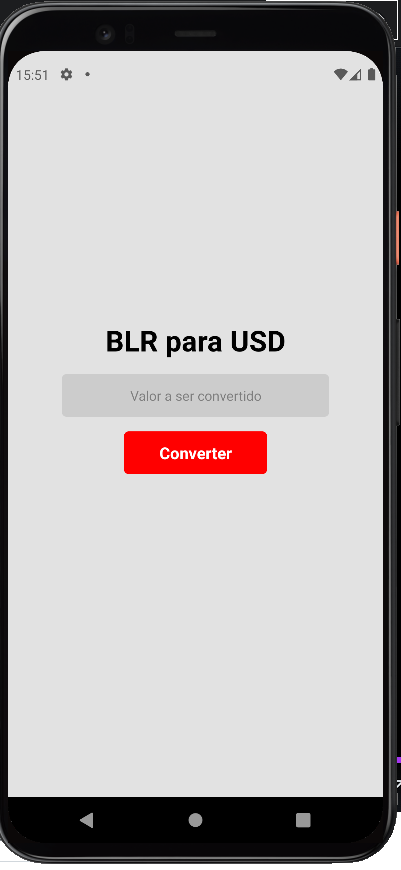
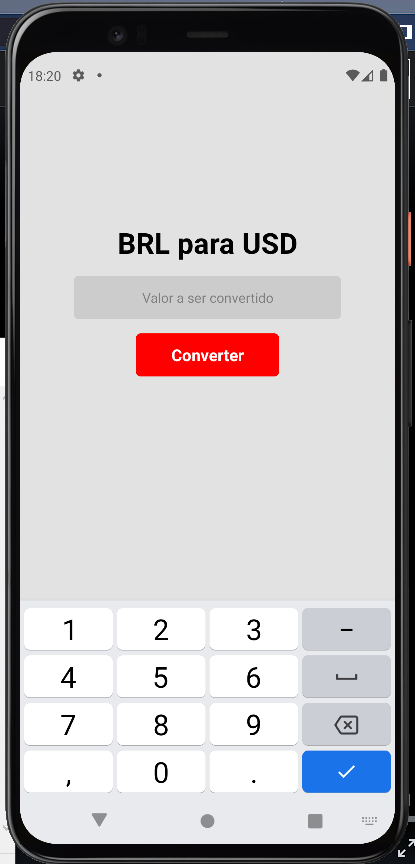
C1 - README.md

diff --git a/src/Conversor/index.js b/src/Conversor/index.js
@@ -2,7 +2,7 @@
  * 
  */
 import React, { Component } from "react";
-import { View, Text, TextInput, TouchableOpacity } from "react-native";
+import { View, Text, TextInput, TouchableOpacity, Keyboard } from "react-native";
 import { styles } from "./styles";
 
 export default class Conversor extends Component {
@@ -19,14 +19,25 @@ export default class Conversor extends Component {
     this.converter = this.converter.bind(this)
   }
 
-  converter(){
-    alert('ok')
+  async converter() {
+    let de_para = this.state.moedaA + '_' + this.state.moedaB  //esta concatenando BRL_USD
+    const response = await api.get(`convert?q=${de_para}&compact=ultra&apiKey=7c5ef455b88d735bc6ad`)  //insere o BRL_USD dentro da url
+    let cotacao = response.data[de_para] //pegara somente a resposta do response, somente o valor com de_para, já pegando aqui os valores dentro da api
+
+    let resultado = (cotacao * parseInt(this.state.moedaB_valor)) //pega o resultado da cotacao e multiplica pela moedaB_valor, parseInt converte para numero, o valor de moedaB_valor foi alterado pelo input
+
+    this.setState({  //altera o valor de valorConvertido para o valor contido em resultado
+      valorConvertido: resultado.toFixed(2)
+    })
+
+    //Fecha o techado automaticamente
+    Keyboard.dismiss()
   }
 
   render() {
 
-    //desconstrução, afim de pegar os valores de Conversor moedaA="BLR" moedaB="USD" />
-    const {moedaA, moedaB} = this.props
+    //desconstrução, afim de pegar os valores de Conversor moedaA="BRL" moedaB="USD" />
+    const { moedaA, moedaB } = this.props
 
     return (
       <View style={styles.container}>
@@ -35,7 +46,7 @@ export default class Conversor extends Component {
         <TextInput
           style={styles.areaInput}
           placeholder='Valor a ser convertido'
-          onChangeText={(moedaB_valor) => this.setState({moedaB_valor})}  //altera o valor de moedaB_valor por meio do setState
+          onChangeText={(moedaB_valor) => this.setState({ moedaB_valor })}  //altera o valor de moedaB_valor por meio do setState
           keyboardType="numeric"
         />
 
@@ -43,8 +54,10 @@ export default class Conversor extends Component {
           <Text style={styles.botaoTexto}>Converter</Text>
         </TouchableOpacity>
 
-        <Text style={styles.valorConvertido}>{this.setState.valorConvertido}</Text>
-      </View>
+        <Text style={styles.valorConvertido}>
+          {(this.state.valorConvertido === 0) ? '' : this.state.valorConvertido}
+        </Text>
+      </View>//{(this.state.valorConvertido === 0) ? '' : this.state.valorConvertido} se o valor convertido for zero, nao apresenta nada, se não aparecerá o valor convertido
     )
   }
 }

diff --git a/App.js b/App.js
@@ -21,7 +21,7 @@ export default class App extends Component{
   render(){
     return(
       <View style={styles.container}>
-        <Conversor moedaA="BLR" moedaB="USD" />
+        <Conversor moedaA="BRL" moedaB="USD" />
       </View>
     )
   }

diff --git a/README.md b/README.md
@@ -16,6 +16,10 @@
 ## 💻 Projeto
 Aplicativo desenvolvido em React Native, afim de converter moedas utilizando a API currencyconverterapi.
 
+Para isso, será necessário o cadastramento no site: https://free.currencyconverterapi.com/ , para a utilização da API
+
+Uma vez com a chave de acesso, essa deverá ser inserida no arquivo conversor/index.js, na linha 24, substituindo o valor: 7c5ef455b88d735bc6ad para a sua key
+
 ## ✨ Tecnologias
 
 -   [ ] React
